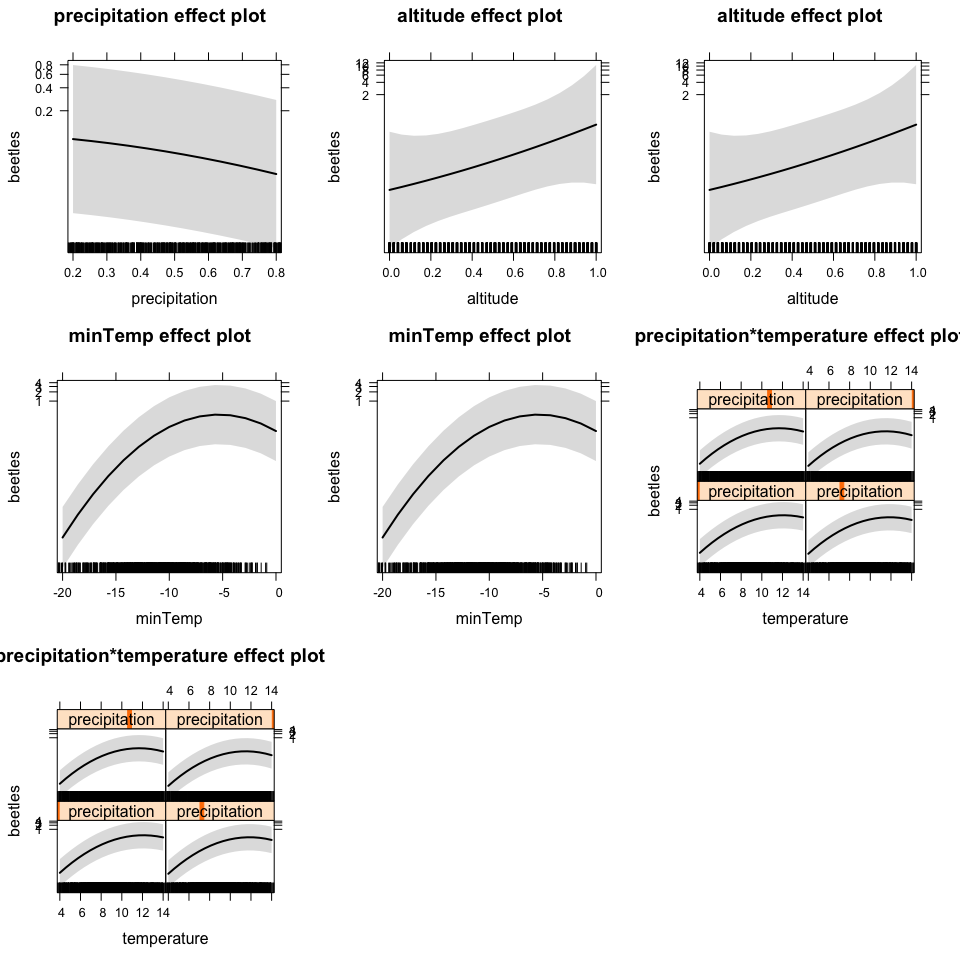
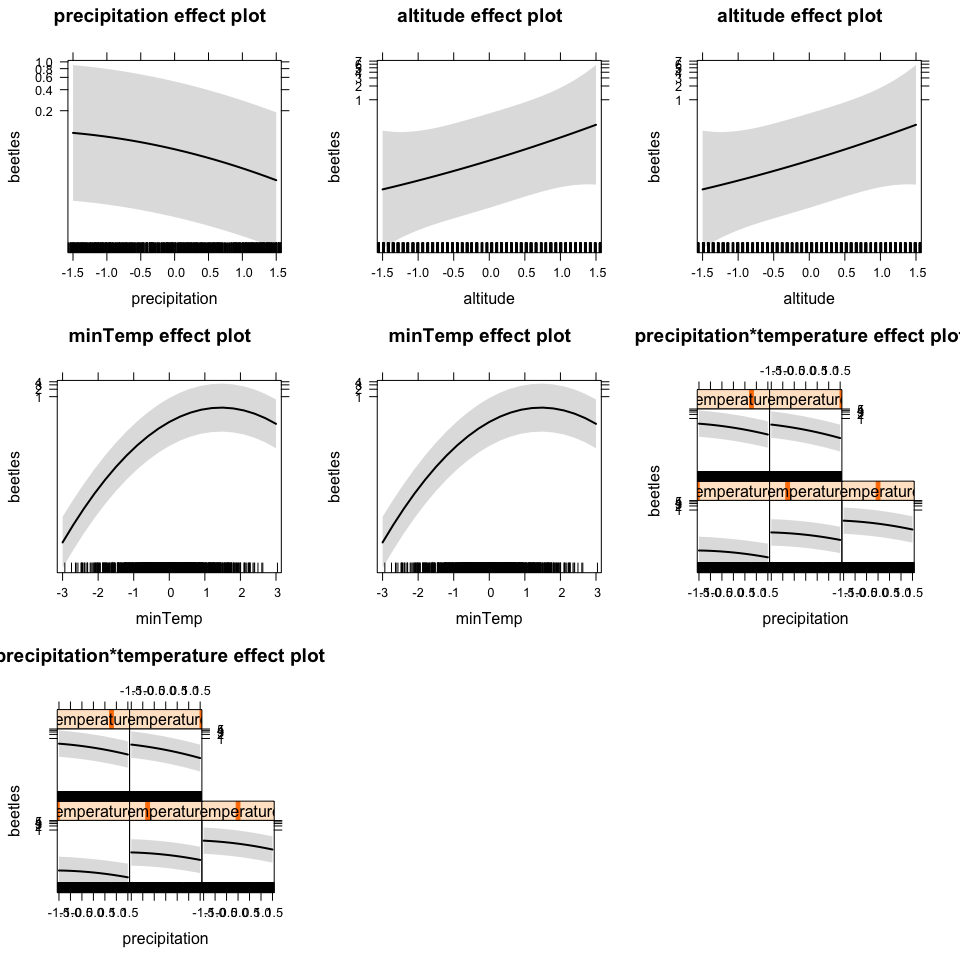
updates mixed example

diff --git a/LectureNotes/MixedEffectModels/Session-Final/DataAnalysis.md b/LectureNotes/MixedEffectModels/Session-Final/DataAnalysis.md
@@ -1,4 +1,4 @@
-# Data Analysis
+# Mixed Model exercise - data analysis
 FlorianHartig  
 29 Apr 2015  
 
@@ -11,6 +11,11 @@ FlorianHartig
 
 ```r
 data <- read.table("data.txt", header=TRUE, quote="\"")
+
+data$precipitation = scale(data$precipitation)
+data$temperature = scale(data$temperature)
+data$altitude = scale(data$altitude)
+data$minTemp = scale(data$minTemp)
 ```
 
 ## Results of the discussion in the group
@@ -33,21 +38,6 @@ Summary
 
 ```r
 fit <- glmer(beetles ~ precipitation + I(precipitation^2) + altitude + I(altitude^2) + temperature + I(temperature^2) + minTemp + I(minTemp^2) + precipitation:temperature + precipitation:I(temperature^2) + (1|region/plot) + (1|technician) + (1|year), family = poisson, data = data)
-```
-
-```
-## Warning in checkConv(attr(opt, "derivs"), opt$par, ctrl =
-## control$checkConv, : Model failed to converge with max|grad| = 0.00204397
-## (tol = 0.001, component 9)
-```
-
-```
-## Warning in checkConv(attr(opt, "derivs"), opt$par, ctrl = control$checkConv, : Model is nearly unidentifiable: very large eigenvalue
-##  - Rescale variables?;Model is nearly unidentifiable: large eigenvalue ratio
-##  - Rescale variables?
-```
-
-```r
 summary(fit)
 ```
 
@@ -67,45 +57,45 @@ summary(fit)
 ## 
 ## Scaled residuals: 
 ##     Min      1Q  Median      3Q     Max 
-## -2.7223 -0.3559 -0.1097 -0.0091  5.8602 
+## -2.7223 -0.3559 -0.1097 -0.0091  5.8601 
 ## 
 ## Random effects:
 ##  Groups      Name        Variance Std.Dev.
-##  plot:region (Intercept) 0.3332   0.5772  
-##  year        (Intercept) 0.4752   0.6893  
-##  region      (Intercept) 4.7194   2.1724  
-##  technician  (Intercept) 3.9280   1.9819  
+##  plot:region (Intercept) 0.3332   0.5773  
+##  year        (Intercept) 0.4753   0.6894  
+##  region      (Intercept) 4.7187   2.1723  
+##  technician  (Intercept) 3.9249   1.9811  
 ## Number of obs: 1000, groups:  
 ## plot:region, 50; year, 20; region, 10; technician, 5
 ## 
 ## Fixed effects:
-##                                  Estimate Std. Error z value Pr(>|z|)    
-## (Intercept)                    -16.145803   2.057237  -7.848 4.22e-15 ***
-## precipitation                   -0.176260   1.986634  -0.089 0.929302    
-## I(precipitation^2)              -1.216485   0.319122  -3.812 0.000138 ***
-## altitude                         2.779933   5.129131   0.542 0.587826    
-## I(altitude^2)                    0.900911   4.828599   0.187 0.851991    
-## temperature                      2.349350   0.227711  10.317  < 2e-16 ***
-## I(temperature^2)                -0.095660   0.010793  -8.863  < 2e-16 ***
-## minTemp                         -0.463308   0.041766 -11.093  < 2e-16 ***
-## I(minTemp^2)                    -0.043221   0.002334 -18.520  < 2e-16 ***
-## precipitation:temperature        0.067613   0.402565   0.168 0.866619    
-## precipitation:I(temperature^2)  -0.011221   0.020193  -0.556 0.578424    
+##                                Estimate Std. Error z value Pr(>|z|)    
+## (Intercept)                    -1.76171    1.21281   -1.45 0.146339    
+## precipitation                  -0.50142    0.03065  -16.36  < 2e-16 ***
+## I(precipitation^2)             -0.10701    0.02808   -3.81 0.000138 ***
+## altitude                        1.08491    0.57364    1.89 0.058587 .  
+## I(altitude^2)                   0.07834    0.41970    0.19 0.851922    
+## temperature                     1.31692    0.05717   23.03  < 2e-16 ***
+## I(temperature^2)               -0.56499    0.03666  -15.41  < 2e-16 ***
+## minTemp                         1.83858    0.05016   36.66  < 2e-16 ***
+## I(minTemp^2)                   -0.63202    0.03413  -18.52  < 2e-16 ***
+## precipitation:temperature      -0.09445    0.04077   -2.32 0.020510 *  
+## precipitation:I(temperature^2) -0.01850    0.03341   -0.55 0.579789    
 ## ---
 ## Signif. codes:  0 '***' 0.001 '**' 0.01 '*' 0.05 '.' 0.1 ' ' 1
 ## 
 ## Correlation of Fixed Effects:
 ##             (Intr) prcptt I(p^2) altitd I(l^2) tmprtr I(t^2) minTmp I(T^2)
-## precipitatn -0.493                                                        
-## I(prcptt^2)  0.015 -0.125                                                 
-## altitude    -0.500 -0.010  0.001                                          
-## I(altitd^2)  0.342  0.018 -0.006 -0.925                                   
-## temperature -0.567  0.841  0.036 -0.028  0.037                            
-## I(tmprtr^2)  0.550 -0.833 -0.057  0.031 -0.037 -0.993                     
-## minTemp      0.101 -0.107  0.018  0.018 -0.019 -0.038  0.033              
-## I(minTmp^2)  0.092 -0.098  0.037  0.015 -0.017 -0.032  0.033  0.980       
-## prcpttn:tmp  0.475 -0.976 -0.056  0.009 -0.016 -0.826  0.831  0.119  0.109
-## prcpt:I(^2) -0.452  0.952  0.080 -0.008  0.015  0.791 -0.804 -0.128 -0.119
+## precipitatn  0.014                                                        
+## I(prcptt^2) -0.023 -0.009                                                 
+## altitude    -0.013  0.005 -0.012                                          
+## I(altitd^2) -0.341 -0.003 -0.006  0.042                                   
+## temperature -0.019  0.140  0.012  0.071  0.030                            
+## I(tmprtr^2) -0.002 -0.314  0.028  0.005 -0.038 -0.346                     
+## minTemp     -0.008 -0.136 -0.085  0.004  0.005 -0.078  0.050              
+## I(minTmp^2)  0.005  0.160  0.037 -0.002 -0.017 -0.029 -0.128 -0.767       
+## prcpttn:tmp  0.001 -0.045  0.116 -0.014 -0.021 -0.202  0.244  0.034  0.009
+## prcpt:I(^2) -0.015 -0.457  0.080  0.014  0.015  0.244  0.210  0.055 -0.119
 ##             prcpt:
 ## precipitatn       
 ## I(prcptt^2)       
@@ -116,7 +106,7 @@ summary(fit)
 ## minTemp           
 ## I(minTmp^2)       
 ## prcpttn:tmp       
-## prcpt:I(^2) -0.994
+## prcpt:I(^2) -0.616
 ```
 
 ```r
@@ -129,22 +119,7 @@ The results of the fit are fine, but it's a lot easier to see what's going if we
 
 
 ```r
-fit <- glmer(beetles ~ precipitation + I(precipitation^2) + altitude + I(altitude^2) + temperature + I(temperature^2) + minTemp + I(minTemp^2)  + (1|region/plot) + (1|technician) + (1|year) + (1|dataID), family = poisson, data = data)
-```
-
-```
-## Warning in checkConv(attr(opt, "derivs"), opt$par, ctrl =
-## control$checkConv, : Model failed to converge with max|grad| = 0.0695406
-## (tol = 0.001, component 9)
-```
-
-```
-## Warning in checkConv(attr(opt, "derivs"), opt$par, ctrl = control$checkConv, : Model is nearly unidentifiable: very large eigenvalue
-##  - Rescale variables?;Model is nearly unidentifiable: large eigenvalue ratio
-##  - Rescale variables?
-```
-
-```r
+fit <- glmer(beetles ~ precipitation + I(precipitation^2) + altitude + I(altitude^2) + temperature + I(temperature^2) + minTemp + I(minTemp^2)  + (1|region/plot) + (1|technician) + (1|year) , family = poisson, data = data)
 summary(fit)
 ```
 
@@ -155,50 +130,49 @@ summary(fit)
 ## Formula: 
 ## beetles ~ precipitation + I(precipitation^2) + altitude + I(altitude^2) +  
 ##     temperature + I(temperature^2) + minTemp + I(minTemp^2) +  
-##     (1 | region/plot) + (1 | technician) + (1 | year) + (1 |      dataID)
+##     (1 | region/plot) + (1 | technician) + (1 | year)
 ##    Data: data
 ## 
 ##      AIC      BIC   logLik deviance df.resid 
-##   1874.8   1943.5   -923.4   1846.8      986 
+##   1930.1   1993.9   -952.1   1904.1      987 
 ## 
 ## Scaled residuals: 
 ##     Min      1Q  Median      3Q     Max 
-## -2.2114 -0.3116 -0.0984 -0.0086  6.0426 
+## -2.8111 -0.3515 -0.1100 -0.0102  5.8728 
 ## 
 ## Random effects:
 ##  Groups      Name        Variance Std.Dev.
-##  dataID      (Intercept) 0.09827  0.3135  
-##  plot:region (Intercept) 0.30747  0.5545  
-##  year        (Intercept) 0.53787  0.7334  
-##  region      (Intercept) 4.93934  2.2225  
-##  technician  (Intercept) 4.05647  2.0141  
+##  plot:region (Intercept) 0.3439   0.5864  
+##  year        (Intercept) 0.4928   0.7020  
+##  region      (Intercept) 4.7581   2.1813  
+##  technician  (Intercept) 3.9724   1.9931  
 ## Number of obs: 1000, groups:  
-## dataID, 1000; plot:region, 50; year, 20; region, 10; technician, 5
+## plot:region, 50; year, 20; region, 10; technician, 5
 ## 
 ## Fixed effects:
-##                      Estimate Std. Error z value Pr(>|z|)    
-## (Intercept)        -15.951246   1.922383  -8.298  < 2e-16 ***
-## precipitation       -1.078050   0.482841  -2.233   0.0256 *  
-## I(precipitation^2)  -0.923718   0.482167  -1.916   0.0554 .  
-## altitude             3.168354   5.189598   0.611   0.5415    
-## I(altitude^2)        0.527792   4.885782   0.108   0.9140    
-## temperature          2.320171   0.177148  13.097  < 2e-16 ***
-## I(temperature^2)    -0.096116   0.008825 -10.892  < 2e-16 ***
-## minTemp             -0.494232   0.066659  -7.414 1.22e-13 ***
-## I(minTemp^2)        -0.045360   0.003591 -12.630  < 2e-16 ***
+##                    Estimate Std. Error z value Pr(>|z|)    
+## (Intercept)        -1.81705    1.22013   -1.49  0.13643    
+## precipitation      -0.55441    0.02380  -23.29  < 2e-16 ***
+## I(precipitation^2) -0.08709    0.02741   -3.18  0.00148 ** 
+## altitude            1.07771    0.57770    1.87  0.06211 .  
+## I(altitude^2)       0.06046    0.42426    0.14  0.88668    
+## temperature         1.31241    0.05504   23.84  < 2e-16 ***
+## I(temperature^2)   -0.50343    0.03107  -16.20  < 2e-16 ***
+## minTemp             1.85644    0.05008   37.07  < 2e-16 ***
+## I(minTemp^2)       -0.64478    0.03382  -19.07  < 2e-16 ***
 ## ---
 ## Signif. codes:  0 '***' 0.001 '**' 0.01 '*' 0.05 '.' 0.1 ' ' 1
 ## 
 ## Correlation of Fixed Effects:
 ##             (Intr) prcptt I(p^2) altitd I(l^2) tmprtr I(t^2) minTmp
-## precipitatn -0.029                                                 
-## I(prcptt^2)  0.016 -0.965                                          
-## altitude    -0.535 -0.001  0.001                                   
-## I(altitd^2)  0.360  0.011 -0.009 -0.924                            
-## temperature -0.413 -0.048  0.063 -0.060  0.070                     
-## I(tmprtr^2)  0.375  0.065 -0.071  0.068 -0.071 -0.985              
-## minTemp      0.098 -0.003  0.030  0.016 -0.015  0.123 -0.151       
-## I(minTmp^2)  0.091 -0.024  0.055  0.014 -0.014  0.111 -0.129  0.975
+## precipitatn  0.004                                                 
+## I(prcptt^2) -0.021  0.161                                          
+## altitude    -0.013  0.012 -0.012                                   
+## I(altitd^2) -0.343 -0.003 -0.003  0.042                            
+## temperature -0.016  0.269 -0.001  0.071  0.027                     
+## I(tmprtr^2)  0.007 -0.020 -0.095  0.004 -0.041 -0.444              
+## minTemp     -0.007 -0.096 -0.112  0.004  0.006 -0.088 -0.004       
+## I(minTmp^2)  0.003  0.091  0.069  0.000 -0.018 -0.005 -0.075 -0.767
 ```
 
 ```r
@@ -214,11 +188,10 @@ If you want to compare to the true values, have a look at the Rmd file that crea
 
 ## Still todo
 
-* Check for overdispersion and potentially correct overdispersion (I have corrected already though)
+* Check for overdispersion and potentially correct overdispersion 
 * Check for homogeneity of residuals, and for normality of the random effects
 
-How to do both things are described in my lectures. I don't do them now because I know the true model and know that model assumptions are more or less met and that parameter estimates are fine
-
+How to do both things are described in my lectures. I skip this here because I know the truth and know that the conclusions are fine, but in general you should check of course.
 
 
 

diff --git a/LectureNotes/MixedEffectModels/Session-Final/DataCreation.md b/LectureNotes/MixedEffectModels/Session-Final/DataCreation.md
@@ -1,0 +1,63 @@
+Mixed Model exercise - data creation
+=====================
+
+
+
+
+
+
+## Background
+
+The national forest agency has asked you for advice - research has suggested that bark beetle attacks will be reduced if the climate becomes wetter under climate change, as suggested for the region we are looking at here.
+
+However, the foresters don't believe this. They suggest that the beetles mostly depend on mimum temperature in winter, which is predicted to increase.  
+
+The forest agency provides you with a dataset of counted bark beetles, and a number of predictors and other variables. Your job is to find out if beetles are depending more on precipitation, or on minimum winter temperatures. 
+
+
+## The data 
+
+The forest agency measured bark beetle counts over 20 years on 50 different plots in 7 regions across an altitudinal gradient. Measurements were performed by 5 different technicians. 
+
+Environmental predictors are precipitation, average temperature, minimum winter temperature and altitude (the latter is fix for each plot).
+
+<font size="5">
+
+```r
+str(data)
+```
+
+```
+## 'data.frame':	1000 obs. of  11 variables:
+##  $ dataID           : int  1 2 3 4 5 6 7 8 9 10 ...
+##  $ beetles          : int  0 0 0 0 0 0 0 0 0 0 ...
+##  $ precipitation    : num  0.185 0.702 0.573 0.168 0.944 ...
+##  $ altitude         : num  0 0 0 0 0 0 0 0 0 0 ...
+##  $ temperature      : num  11.43 9.52 13.09 12.29 10.23 ...
+##  $ minTemp          : num  -7.17 -7.61 -9.76 -7.59 -12.26 ...
+##  $ region           : int  1 1 1 1 1 1 1 1 1 1 ...
+##  $ plot             : int  1 1 1 1 1 1 1 1 1 1 ...
+##  $ year             : int  1 2 3 4 5 6 7 8 9 10 ...
+##  $ technician       : int  1 3 5 2 2 3 5 1 5 1 ...
+##  $ spatialCoordinate: num  0 0 0 0 0 0 0 0 0 0 ...
+```
+</font>
+
+<font size="4">
+<img src="DataCreation_files/figure-html/unnamed-chunk-4-1.png" title="" alt="" style="display: block; margin: auto;" />
+</font>
+
+
+
+<font size="4">
+<img src="DataCreation_files/figure-html/unnamed-chunk-5-1.png" title="" alt="" style="display: block; margin: auto;" />
+</font>
+
+## Task
+
+Analyze the data and give your evaluation of the situation
+
+
+
+
+
